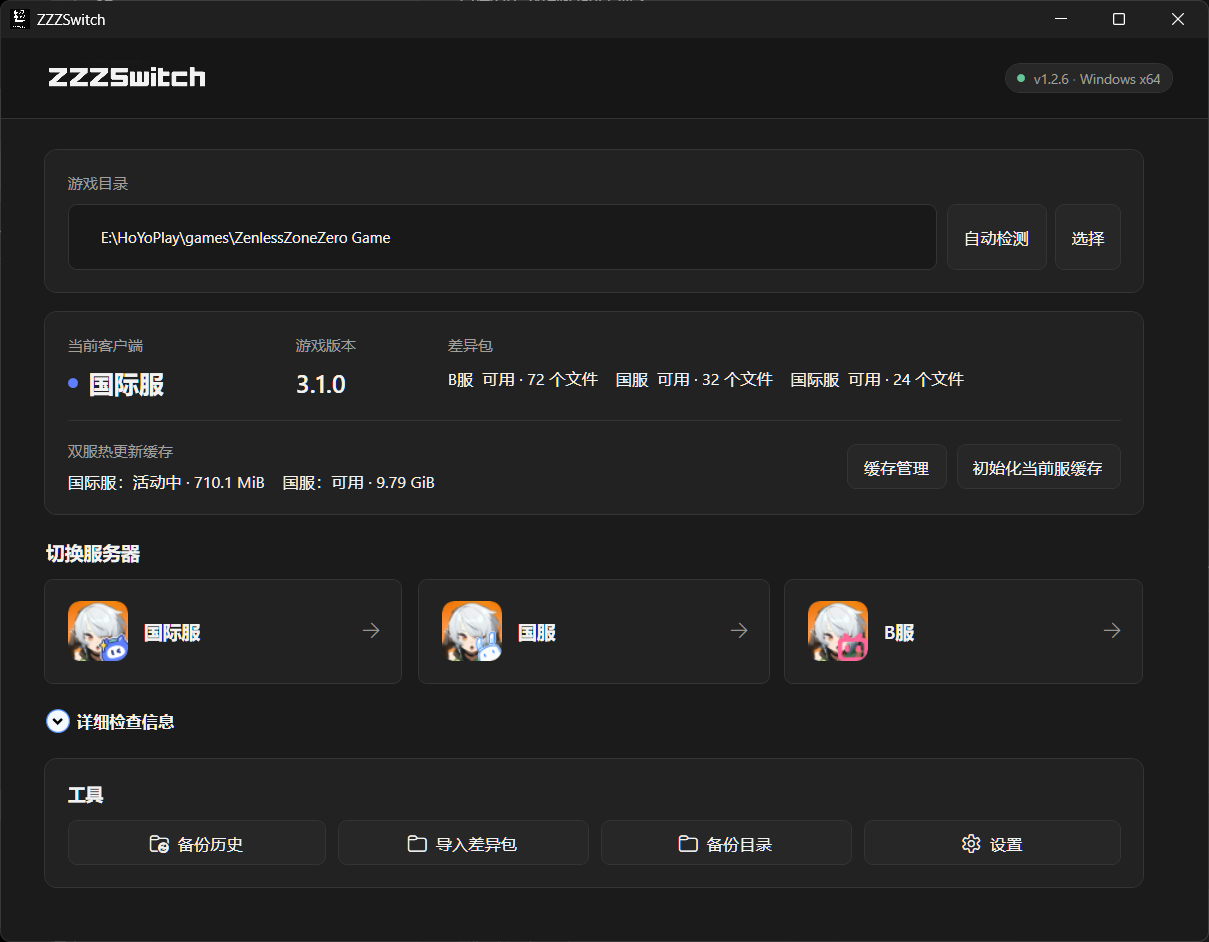
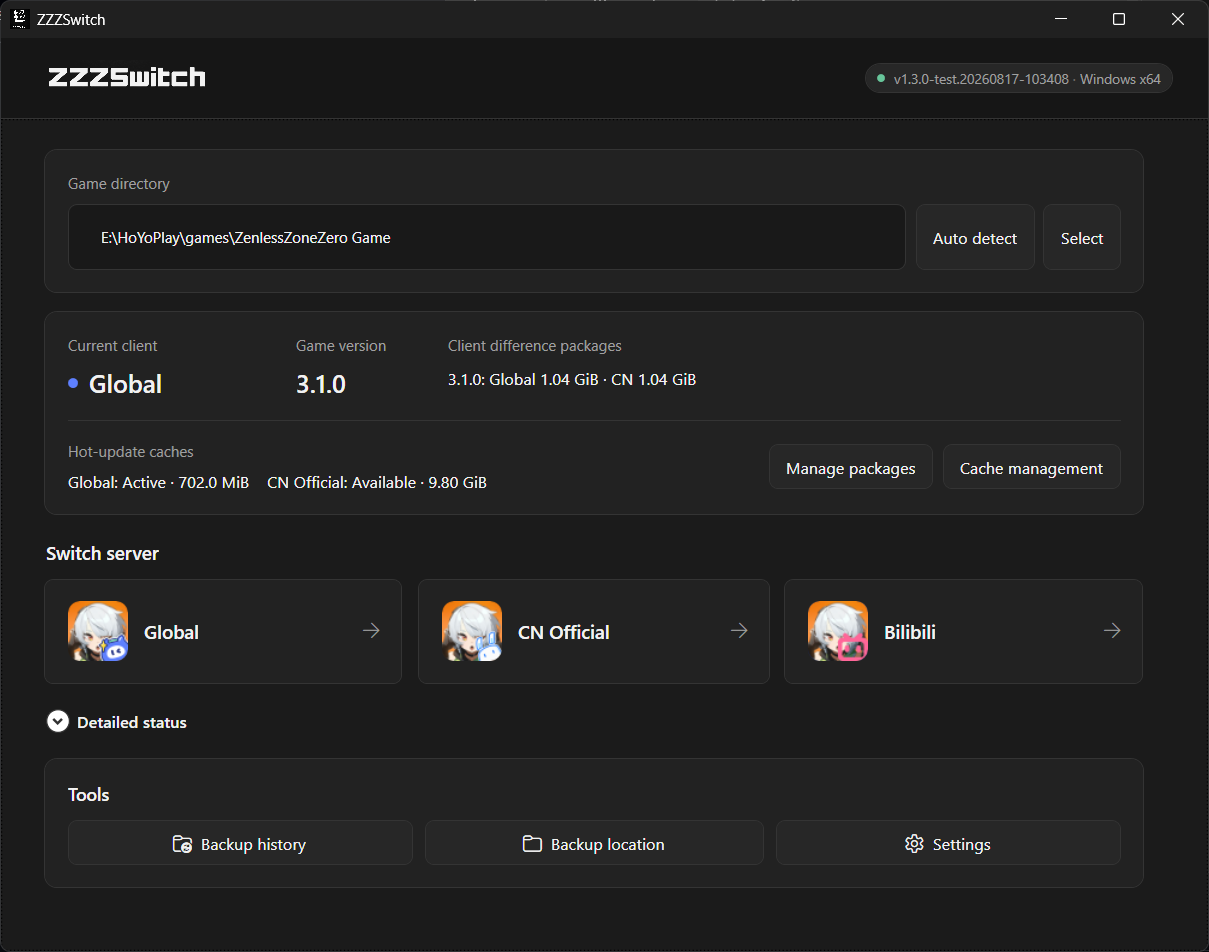
Update v1.3 documentation

diff --git a/README.md b/README.md
@@ -1,45 +1,80 @@
 # ZZZSwitch
 
-ZZZSwitch is a Windows multi-region switcher for **Zenless Zone Zero**. The current test build obtains Global ↔ CN Official client differences from Sophon when the user starts a switch; those two regions do not require a bundled local replacement package. Bilibili directions keep the legacy local-package workflow.
+ZZZSwitch is a Windows server switcher for **Zenless Zone Zero**, supporting **Global**, **CN Official**, and **Bilibili** clients.
 
-It can automatically detect the game installation directory and provides **verified online difference downloads, automatic current-region cache preservation**, and transactional switching between supported regions.
+Starting with **v1.3.0**, Global ↔ CN Official switching no longer depends on a separately distributed replacement package. ZZZSwitch reads the official Sophon manifests for the installed game version, calculates the required client differences, downloads and verifies the real files, and saves the completed result as a reusable local version package. Bilibili switching remains a CN-based channel overlay and continues to use the matching legacy local package.
 
 ![ZZZSwitch main window](docs/images/zzzswitch-main-window.png)
 
-> [!NOTE]
-> The current runnable **test build** changes Global ↔ CN Official switching to an online Sophon workflow. The first download uses resumable, bounded-parallel chunk transfers and creates a versioned local automatic package; later switches within that version use the ready package without reopening the download workflow. The home page and Version Resources window show saved targets and disk usage. Every switch still verifies SHA-256 and uses the existing transactional backup/rollback engine. Global ↔ CN Official never reads or falls back to `.zzzswitch\packages`; any direction involving Bilibili deliberately keeps the legacy local-package workflow and is not shown in Sophon Manifest management. See [the test workflow and scope](docs/manifest-analysis.md#主程序测试版在线切换).
+## Highlights
 
----
+- Automatically detects the Zenless Zone Zero installation or lets you select it manually.
+- Retrieves Global and CN Official Sophon manifests for the exact installed game version.
+- Builds versioned Global ↔ CN Official client-difference packages on demand.
+- Resumes verified file and chunk downloads after cancellation or network failure.
+- Reuses a completed package for later switches in the same version and direction.
+- Preserves each server's hot-update cache automatically before switching.
+- Supports Bilibili as a separate login/channel overlay while sharing CN resource caches.
+- Verifies switch files with MD5 and SHA-256 before applying them.
+- Uses transactional backups, rollback journals, process checks, and path-safety validation.
+- Provides package management, Manifest browsing, previews, updates, integrity checks, cache management, and backup history.
+
+## Requirements
+
+- Windows x64.
+- An installed PC version of Zenless Zone Zero.
+- Internet access for the first Global ↔ CN Official package download for each game version and direction.
+- A version-matched legacy local package for any switch involving Bilibili. Bilibili resources are not obtained through Sophon in v1.3.0.
 
 ## Usage
 
-1. Download and run the ZZZSwitch test build. Global ↔ CN Official needs no separate package; Bilibili switching requires the matching legacy package under the game's `.zzzswitch\packages` directory.
+1. Download `ZZZSwitch-win-x64-v1.3.0.zip` from the [latest release](https://github.com/lz007001cn/ZZZSwitch/releases/latest), extract it to any folder, and run `ZZZSwitch.exe`.
 
-2. Let the program detect the game installation directory, or select it manually.
+2. Let ZZZSwitch detect the game directory, or choose the installation manually.
 
-3. Choose Global or CN Official. ZZZSwitch analyzes the current-version manifests and shows the files and maximum download size.
+3. Completely close both the game and HoYoPlay before starting a switch.
 
-4. Confirm the download. Completed files are verified and cached; cancellation never falls back to an old local package.
+4. Select the target server:
 
-5. Confirm the switch. Before changing client files, ZZZSwitch automatically saves the current region's `Persistent\Blocks` and version/revision state inside the existing rollback transaction.
+   - **Global ↔ CN Official:** if a ready package for the detected game version and direction already exists, ZZZSwitch verifies and reuses it. Otherwise it downloads the two Sophon manifests, calculates the client differences, and opens the download window.
+   - **Bilibili:** ZZZSwitch uses the matching legacy package under the game's `.zzzswitch\packages\<game-version>` directory. Bilibili is intentionally excluded from Manifest download and browsing.
 
-   > The first switch may require downloading approximately **3–10 GB** of additional game resources.
+5. For a first-time Global/CN download, review the file count and maximum download size, then start the download. Verified complete files and chunks are retained, so retrying does not restart from zero.
 
-6. Launch the game and make sure you can successfully enter the target region.
+6. Review the switch summary and confirm. ZZZSwitch automatically backs up the current client state and saves the source server's hot-update cache before changing files.
 
-7. Close both the game and launcher before switching again. No manual cache-initialization button is required.
+7. Start the game and complete any target-server resource download. The first entry into a new server may still require approximately **3–10 GB** of in-game resources.
 
----
+8. Before switching again, close the game and launcher. No manual “Initialize Current Region Cache” step is required; the current server cache is saved automatically during the next switch.
 
-## Notes
+## Packages, Manifests, and caches
+
+Open **Manage packages** from the main window to:
+
+- view saved packages by game version and target server;
+- download or refresh the current Global/CN Manifests;
+- browse all resources, story/video files, audio, Streaming Blocks, state metadata, or client differences;
+- preview and verify a completed difference package;
+- update a package while reusing existing verified files and chunks;
+- open or remove selected local package data.
+
+Manifest metadata and automatic Global/CN packages are stored under `%LOCALAPPDATA%\ZZZSwitch`. Large server-specific Blocks caches remain independent from client-difference packages and can be moved or cleaned through **Cache management**.
+
+Packages and caches are isolated by game installation and game version. After a game update, ZZZSwitch requests the new version's Manifests and creates new package/cache records instead of applying an older version's files. Previous versions remain available for manual cleanup.
+
+## Safety notes
 
 > [!IMPORTANT]
-> Make sure both the **game and launcher processes are completely closed** before downloading for a switch or applying it.
+> Do not switch while Zenless Zone Zero or its launcher is running. Keep the game and HoYoPlay closed until ZZZSwitch reports that the operation has completed.
 
-- The online manifest and downloaded files must match the detected game version.
-- The first switch to a new region may require downloading additional resources.
-- After a game update, ZZZSwitch creates a new version-scoped online cache and saves the current region automatically.
+- ZZZSwitch will not apply a package whose game version, file count, size, MD5, or SHA-256 validation fails.
+- Global/CN online switching never falls back to an old `.zzzswitch\packages` replacement package.
+- `Persistent\Blocks` is managed as a server cache; `Persistent\Video` is not moved, copied, verified, or deleted.
+- File replacement, Blocks exchange, state updates, and backups participate in the same recoverable transaction.
+- If an operation is interrupted, startup recovery uses the saved transaction journals and rollback backup.
 
-## Developer tools
+## Developer documentation
 
-- [Sophon Manifest retrieval and cross-region diff test tool](docs/manifest-analysis.md)
+- [Sophon Manifest retrieval, classification, download, and cross-region diff](docs/manifest-analysis.md)
+- [Architecture and transaction design](docs/design.md)
+- [Automated test coverage](docs/testing.md)
